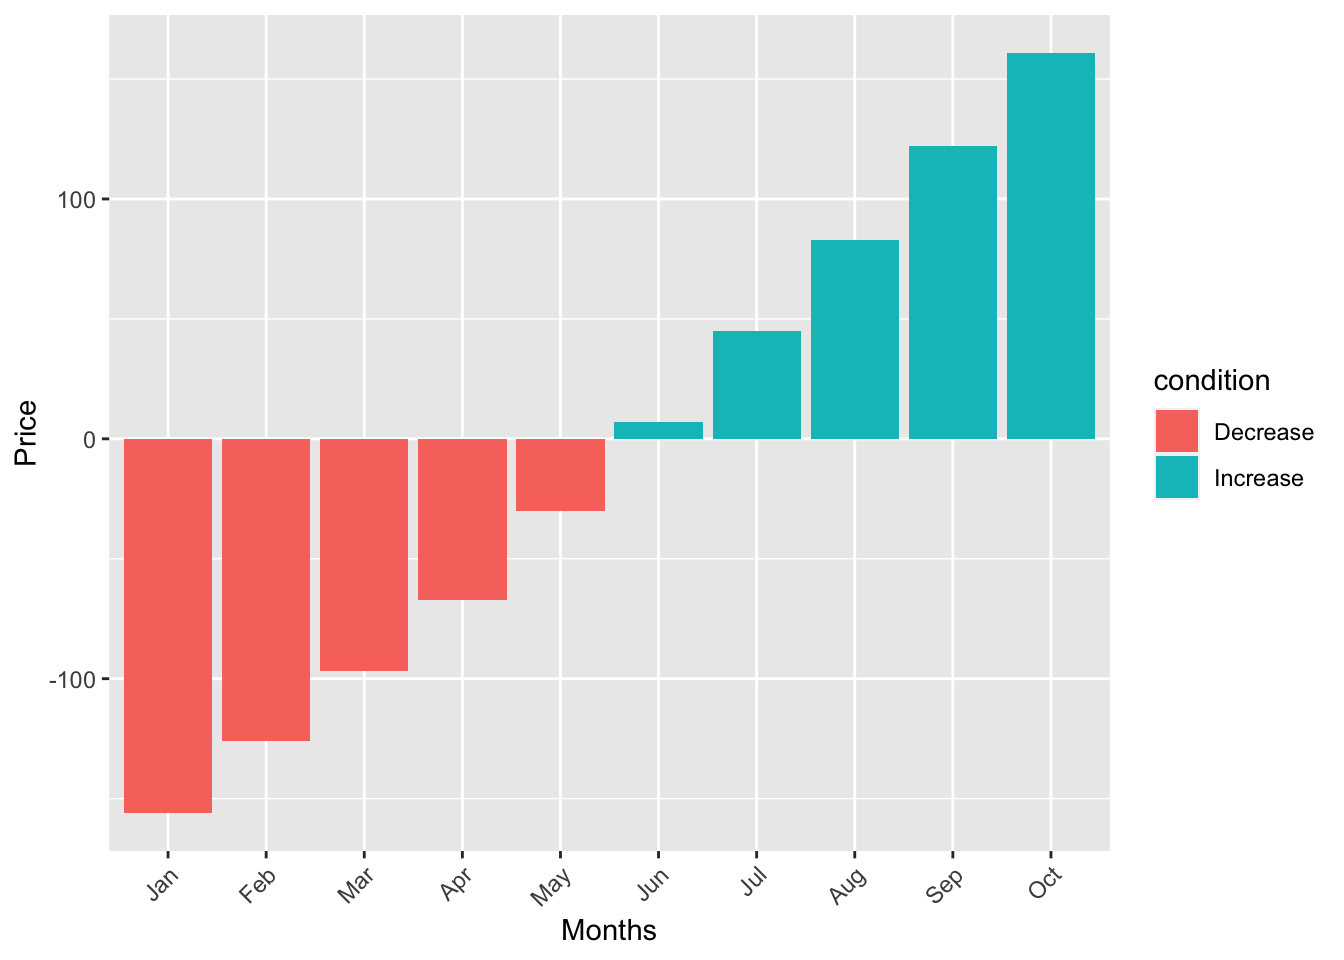
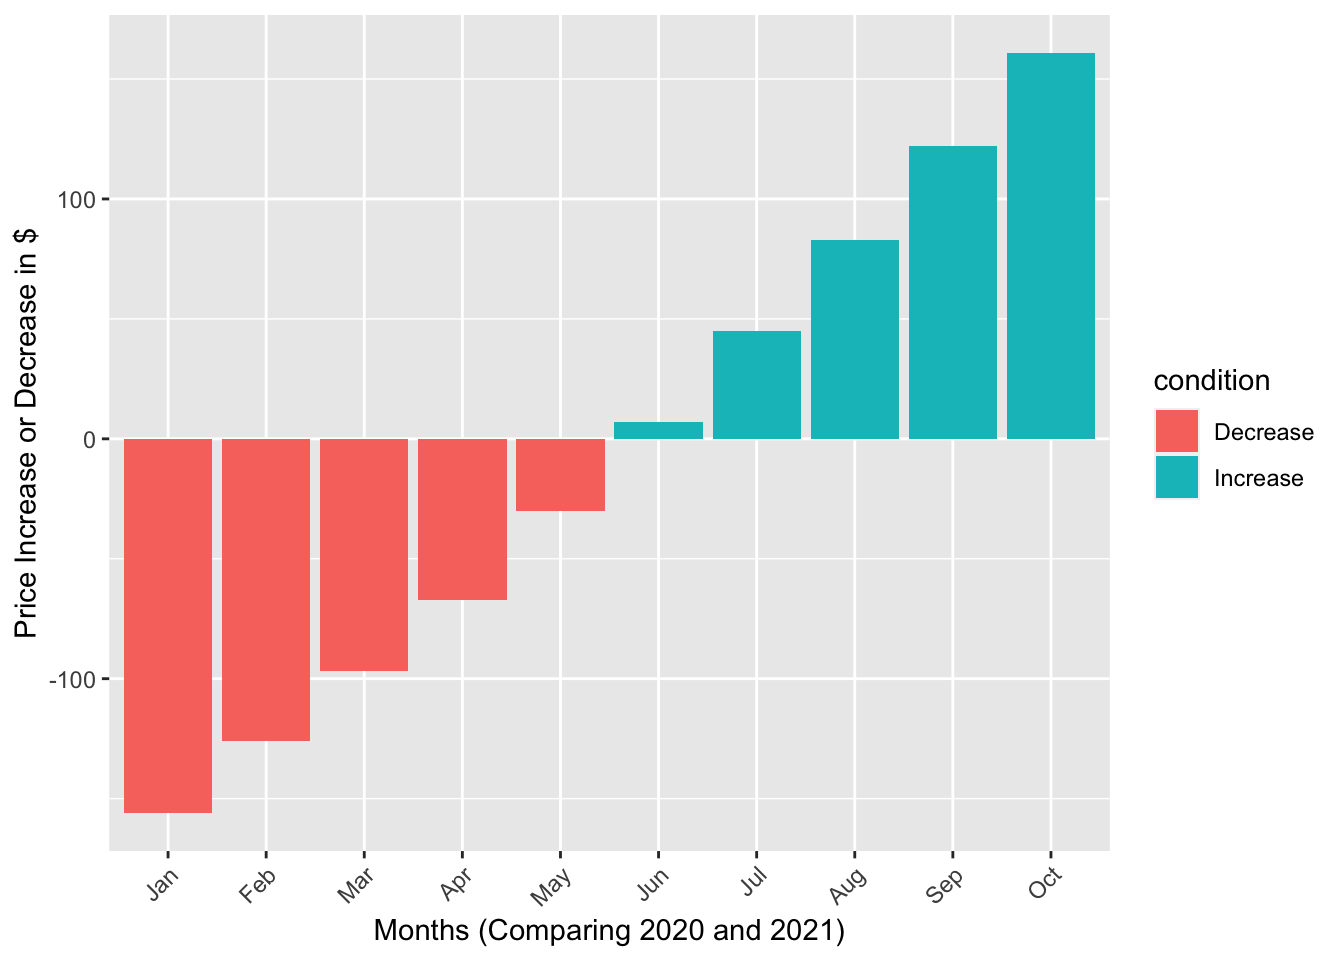
Added 2 more plots in result

Changed region(s): [[0.2812, 0.9375, 0.625, 1.0], [0.0, 0.2188, 0.0312, 0.6562]]

diff --git a/docs/results.html b/docs/results.html
@@ -94,6 +94,7 @@
 <li class="chapter" data-level="5.3" data-path="results.html"><a href="results.html#histogram-of-ny-rental-prices"><i class="fa fa-check"></i><b>5.3</b> Histogram of NY Rental prices</a></li>
 <li class="chapter" data-level="5.4" data-path="results.html"><a href="results.html#the-change-in-ny-rental-prices-for-the-same-months-comparing-year-2019-with-2020"><i class="fa fa-check"></i><b>5.4</b> The change in NY Rental Prices for the same months (Comparing Year 2019 with 2020)</a></li>
 <li class="chapter" data-level="5.5" data-path="results.html"><a href="results.html#the-change-in-ny-rental-prices-for-the-same-months-comparing-year-2020-with-2021"><i class="fa fa-check"></i><b>5.5</b> The change in NY Rental Prices for the same months (Comparing Year 2020 with 2021)</a></li>
+<li class="chapter" data-level="5.6" data-path="results.html"><a href="results.html#comparing-the-impact-of-covid-on-rental-pricing-within-top-5-cities-new-york-and-boston"><i class="fa fa-check"></i><b>5.6</b> Comparing the impact of covid on rental pricing within top 5 cities (New York and Boston)</a></li>
 </ul></li>
 <li class="chapter" data-level="6" data-path="interactive-component.html"><a href="interactive-component.html"><i class="fa fa-check"></i><b>6</b> Interactive component</a></li>
 <li class="chapter" data-level="7" data-path="conclusion.html"><a href="conclusion.html"><i class="fa fa-check"></i><b>7</b> Conclusion</a></li>
@@ -141,6 +142,12 @@ only a marginal increase or decrease in Boston, New York, San Francisco, and San
 <h2><span class="header-section-number">5.5</span> The change in NY Rental Prices for the same months (Comparing Year 2020 with 2021)</h2>
 <p><img src="finalproj_files/figure-html/unnamed-chunk-14-1.png" width="672" /></p>
 <p>When compared to the year 2020, we see the rental prices have started increasing. While the pandemic has made a huge negative impact on rental prices in the year 2020, it is clearly visible that the prices are marching back to normal and the trend seems to be carried for every next month as well. So, New York is marching towards the pre-pandemic normal.</p>
+</div>
+<div id="comparing-the-impact-of-covid-on-rental-pricing-within-top-5-cities-new-york-and-boston" class="section level2" number="5.6">
+<h2><span class="header-section-number">5.6</span> Comparing the impact of covid on rental pricing within top 5 cities (New York and Boston)</h2>
+<p><img src="finalproj_files/figure-html/unnamed-chunk-15-1.png" width="672" /></p>
+<p><img src="finalproj_files/figure-html/unnamed-chunk-16-1.png" width="672" /></p>
+<p>We observe that the due to covid, there has been a drop in rental pricing for Boston as is for New York. But in New York, there has been a tremendous decrease rapidly when compared to Boston. The decrease began for Boston during May 2020, while it started to decrease in New York by March 2020. And the decrease value for New York is almost more than twice than the drop at Boston. During the road to recovery,Boston’s rental price stated increasing by May 2021, while for New York it started by June 2021. Though New York took time to reach this point, now the rental price have increased beyond Boston during the month of October 2021. So, New York has almost reached back to it’s pre-covid situation.</p>
 
 </div>
 </div>

diff --git a/docs/404.html b/docs/404.html
@@ -94,6 +94,7 @@
 <li class="chapter" data-level="5.3" data-path="results.html"><a href="results.html#histogram-of-ny-rental-prices"><i class="fa fa-check"></i><b>5.3</b> Histogram of NY Rental prices</a></li>
 <li class="chapter" data-level="5.4" data-path="results.html"><a href="results.html#the-change-in-ny-rental-prices-for-the-same-months-comparing-year-2019-with-2020"><i class="fa fa-check"></i><b>5.4</b> The change in NY Rental Prices for the same months (Comparing Year 2019 with 2020)</a></li>
 <li class="chapter" data-level="5.5" data-path="results.html"><a href="results.html#the-change-in-ny-rental-prices-for-the-same-months-comparing-year-2020-with-2021"><i class="fa fa-check"></i><b>5.5</b> The change in NY Rental Prices for the same months (Comparing Year 2020 with 2021)</a></li>
+<li class="chapter" data-level="5.6" data-path="results.html"><a href="results.html#comparing-the-impact-of-covid-on-rental-pricing-within-top-5-cities-new-york-and-boston"><i class="fa fa-check"></i><b>5.6</b> Comparing the impact of covid on rental pricing within top 5 cities (New York and Boston)</a></li>
 </ul></li>
 <li class="chapter" data-level="6" data-path="interactive-component.html"><a href="interactive-component.html"><i class="fa fa-check"></i><b>6</b> Interactive component</a></li>
 <li class="chapter" data-level="7" data-path="conclusion.html"><a href="conclusion.html"><i class="fa fa-check"></i><b>7</b> Conclusion</a></li>

diff --git a/docs/conclusion.html b/docs/conclusion.html
@@ -94,6 +94,7 @@
 <li class="chapter" data-level="5.3" data-path="results.html"><a href="results.html#histogram-of-ny-rental-prices"><i class="fa fa-check"></i><b>5.3</b> Histogram of NY Rental prices</a></li>
 <li class="chapter" data-level="5.4" data-path="results.html"><a href="results.html#the-change-in-ny-rental-prices-for-the-same-months-comparing-year-2019-with-2020"><i class="fa fa-check"></i><b>5.4</b> The change in NY Rental Prices for the same months (Comparing Year 2019 with 2020)</a></li>
 <li class="chapter" data-level="5.5" data-path="results.html"><a href="results.html#the-change-in-ny-rental-prices-for-the-same-months-comparing-year-2020-with-2021"><i class="fa fa-check"></i><b>5.5</b> The change in NY Rental Prices for the same months (Comparing Year 2020 with 2021)</a></li>
+<li class="chapter" data-level="5.6" data-path="results.html"><a href="results.html#comparing-the-impact-of-covid-on-rental-pricing-within-top-5-cities-new-york-and-boston"><i class="fa fa-check"></i><b>5.6</b> Comparing the impact of covid on rental pricing within top 5 cities (New York and Boston)</a></li>
 </ul></li>
 <li class="chapter" data-level="6" data-path="interactive-component.html"><a href="interactive-component.html"><i class="fa fa-check"></i><b>6</b> Interactive component</a></li>
 <li class="chapter" data-level="7" data-path="conclusion.html"><a href="conclusion.html"><i class="fa fa-check"></i><b>7</b> Conclusion</a></li>

diff --git a/docs/data-sources.html b/docs/data-sources.html
@@ -94,6 +94,7 @@
 <li class="chapter" data-level="5.3" data-path="results.html"><a href="results.html#histogram-of-ny-rental-prices"><i class="fa fa-check"></i><b>5.3</b> Histogram of NY Rental prices</a></li>
 <li class="chapter" data-level="5.4" data-path="results.html"><a href="results.html#the-change-in-ny-rental-prices-for-the-same-months-comparing-year-2019-with-2020"><i class="fa fa-check"></i><b>5.4</b> The change in NY Rental Prices for the same months (Comparing Year 2019 with 2020)</a></li>
 <li class="chapter" data-level="5.5" data-path="results.html"><a href="results.html#the-change-in-ny-rental-prices-for-the-same-months-comparing-year-2020-with-2021"><i class="fa fa-check"></i><b>5.5</b> The change in NY Rental Prices for the same months (Comparing Year 2020 with 2021)</a></li>
+<li class="chapter" data-level="5.6" data-path="results.html"><a href="results.html#comparing-the-impact-of-covid-on-rental-pricing-within-top-5-cities-new-york-and-boston"><i class="fa fa-check"></i><b>5.6</b> Comparing the impact of covid on rental pricing within top 5 cities (New York and Boston)</a></li>
 </ul></li>
 <li class="chapter" data-level="6" data-path="interactive-component.html"><a href="interactive-component.html"><i class="fa fa-check"></i><b>6</b> Interactive component</a></li>
 <li class="chapter" data-level="7" data-path="conclusion.html"><a href="conclusion.html"><i class="fa fa-check"></i><b>7</b> Conclusion</a></li>

diff --git a/docs/data-transformation.html b/docs/data-transformation.html
@@ -94,6 +94,7 @@
 <li class="chapter" data-level="5.3" data-path="results.html"><a href="results.html#histogram-of-ny-rental-prices"><i class="fa fa-check"></i><b>5.3</b> Histogram of NY Rental prices</a></li>
 <li class="chapter" data-level="5.4" data-path="results.html"><a href="results.html#the-change-in-ny-rental-prices-for-the-same-months-comparing-year-2019-with-2020"><i class="fa fa-check"></i><b>5.4</b> The change in NY Rental Prices for the same months (Comparing Year 2019 with 2020)</a></li>
 <li class="chapter" data-level="5.5" data-path="results.html"><a href="results.html#the-change-in-ny-rental-prices-for-the-same-months-comparing-year-2020-with-2021"><i class="fa fa-check"></i><b>5.5</b> The change in NY Rental Prices for the same months (Comparing Year 2020 with 2021)</a></li>
+<li class="chapter" data-level="5.6" data-path="results.html"><a href="results.html#comparing-the-impact-of-covid-on-rental-pricing-within-top-5-cities-new-york-and-boston"><i class="fa fa-check"></i><b>5.6</b> Comparing the impact of covid on rental pricing within top 5 cities (New York and Boston)</a></li>
 </ul></li>
 <li class="chapter" data-level="6" data-path="interactive-component.html"><a href="interactive-component.html"><i class="fa fa-check"></i><b>6</b> Interactive component</a></li>
 <li class="chapter" data-level="7" data-path="conclusion.html"><a href="conclusion.html"><i class="fa fa-check"></i><b>7</b> Conclusion</a></li>

diff --git a/docs/index.html b/docs/index.html
@@ -94,6 +94,7 @@
 <li class="chapter" data-level="5.3" data-path="results.html"><a href="results.html#histogram-of-ny-rental-prices"><i class="fa fa-check"></i><b>5.3</b> Histogram of NY Rental prices</a></li>
 <li class="chapter" data-level="5.4" data-path="results.html"><a href="results.html#the-change-in-ny-rental-prices-for-the-same-months-comparing-year-2019-with-2020"><i class="fa fa-check"></i><b>5.4</b> The change in NY Rental Prices for the same months (Comparing Year 2019 with 2020)</a></li>
 <li class="chapter" data-level="5.5" data-path="results.html"><a href="results.html#the-change-in-ny-rental-prices-for-the-same-months-comparing-year-2020-with-2021"><i class="fa fa-check"></i><b>5.5</b> The change in NY Rental Prices for the same months (Comparing Year 2020 with 2021)</a></li>
+<li class="chapter" data-level="5.6" data-path="results.html"><a href="results.html#comparing-the-impact-of-covid-on-rental-pricing-within-top-5-cities-new-york-and-boston"><i class="fa fa-check"></i><b>5.6</b> Comparing the impact of covid on rental pricing within top 5 cities (New York and Boston)</a></li>
 </ul></li>
 <li class="chapter" data-level="6" data-path="interactive-component.html"><a href="interactive-component.html"><i class="fa fa-check"></i><b>6</b> Interactive component</a></li>
 <li class="chapter" data-level="7" data-path="conclusion.html"><a href="conclusion.html"><i class="fa fa-check"></i><b>7</b> Conclusion</a></li>

diff --git a/docs/interactive-component.html b/docs/interactive-component.html
@@ -94,6 +94,7 @@
 <li class="chapter" data-level="5.3" data-path="results.html"><a href="results.html#histogram-of-ny-rental-prices"><i class="fa fa-check"></i><b>5.3</b> Histogram of NY Rental prices</a></li>
 <li class="chapter" data-level="5.4" data-path="results.html"><a href="results.html#the-change-in-ny-rental-prices-for-the-same-months-comparing-year-2019-with-2020"><i class="fa fa-check"></i><b>5.4</b> The change in NY Rental Prices for the same months (Comparing Year 2019 with 2020)</a></li>
 <li class="chapter" data-level="5.5" data-path="results.html"><a href="results.html#the-change-in-ny-rental-prices-for-the-same-months-comparing-year-2020-with-2021"><i class="fa fa-check"></i><b>5.5</b> The change in NY Rental Prices for the same months (Comparing Year 2020 with 2021)</a></li>
+<li class="chapter" data-level="5.6" data-path="results.html"><a href="results.html#comparing-the-impact-of-covid-on-rental-pricing-within-top-5-cities-new-york-and-boston"><i class="fa fa-check"></i><b>5.6</b> Comparing the impact of covid on rental pricing within top 5 cities (New York and Boston)</a></li>
 </ul></li>
 <li class="chapter" data-level="6" data-path="interactive-component.html"><a href="interactive-component.html"><i class="fa fa-check"></i><b>6</b> Interactive component</a></li>
 <li class="chapter" data-level="7" data-path="conclusion.html"><a href="conclusion.html"><i class="fa fa-check"></i><b>7</b> Conclusion</a></li>

diff --git a/docs/missing-values.html b/docs/missing-values.html
@@ -94,6 +94,7 @@
 <li class="chapter" data-level="5.3" data-path="results.html"><a href="results.html#histogram-of-ny-rental-prices"><i class="fa fa-check"></i><b>5.3</b> Histogram of NY Rental prices</a></li>
 <li class="chapter" data-level="5.4" data-path="results.html"><a href="results.html#the-change-in-ny-rental-prices-for-the-same-months-comparing-year-2019-with-2020"><i class="fa fa-check"></i><b>5.4</b> The change in NY Rental Prices for the same months (Comparing Year 2019 with 2020)</a></li>
 <li class="chapter" data-level="5.5" data-path="results.html"><a href="results.html#the-change-in-ny-rental-prices-for-the-same-months-comparing-year-2020-with-2021"><i class="fa fa-check"></i><b>5.5</b> The change in NY Rental Prices for the same months (Comparing Year 2020 with 2021)</a></li>
+<li class="chapter" data-level="5.6" data-path="results.html"><a href="results.html#comparing-the-impact-of-covid-on-rental-pricing-within-top-5-cities-new-york-and-boston"><i class="fa fa-check"></i><b>5.6</b> Comparing the impact of covid on rental pricing within top 5 cities (New York and Boston)</a></li>
 </ul></li>
 <li class="chapter" data-level="6" data-path="interactive-component.html"><a href="interactive-component.html"><i class="fa fa-check"></i><b>6</b> Interactive component</a></li>
 <li class="chapter" data-level="7" data-path="conclusion.html"><a href="conclusion.html"><i class="fa fa-check"></i><b>7</b> Conclusion</a></li>
